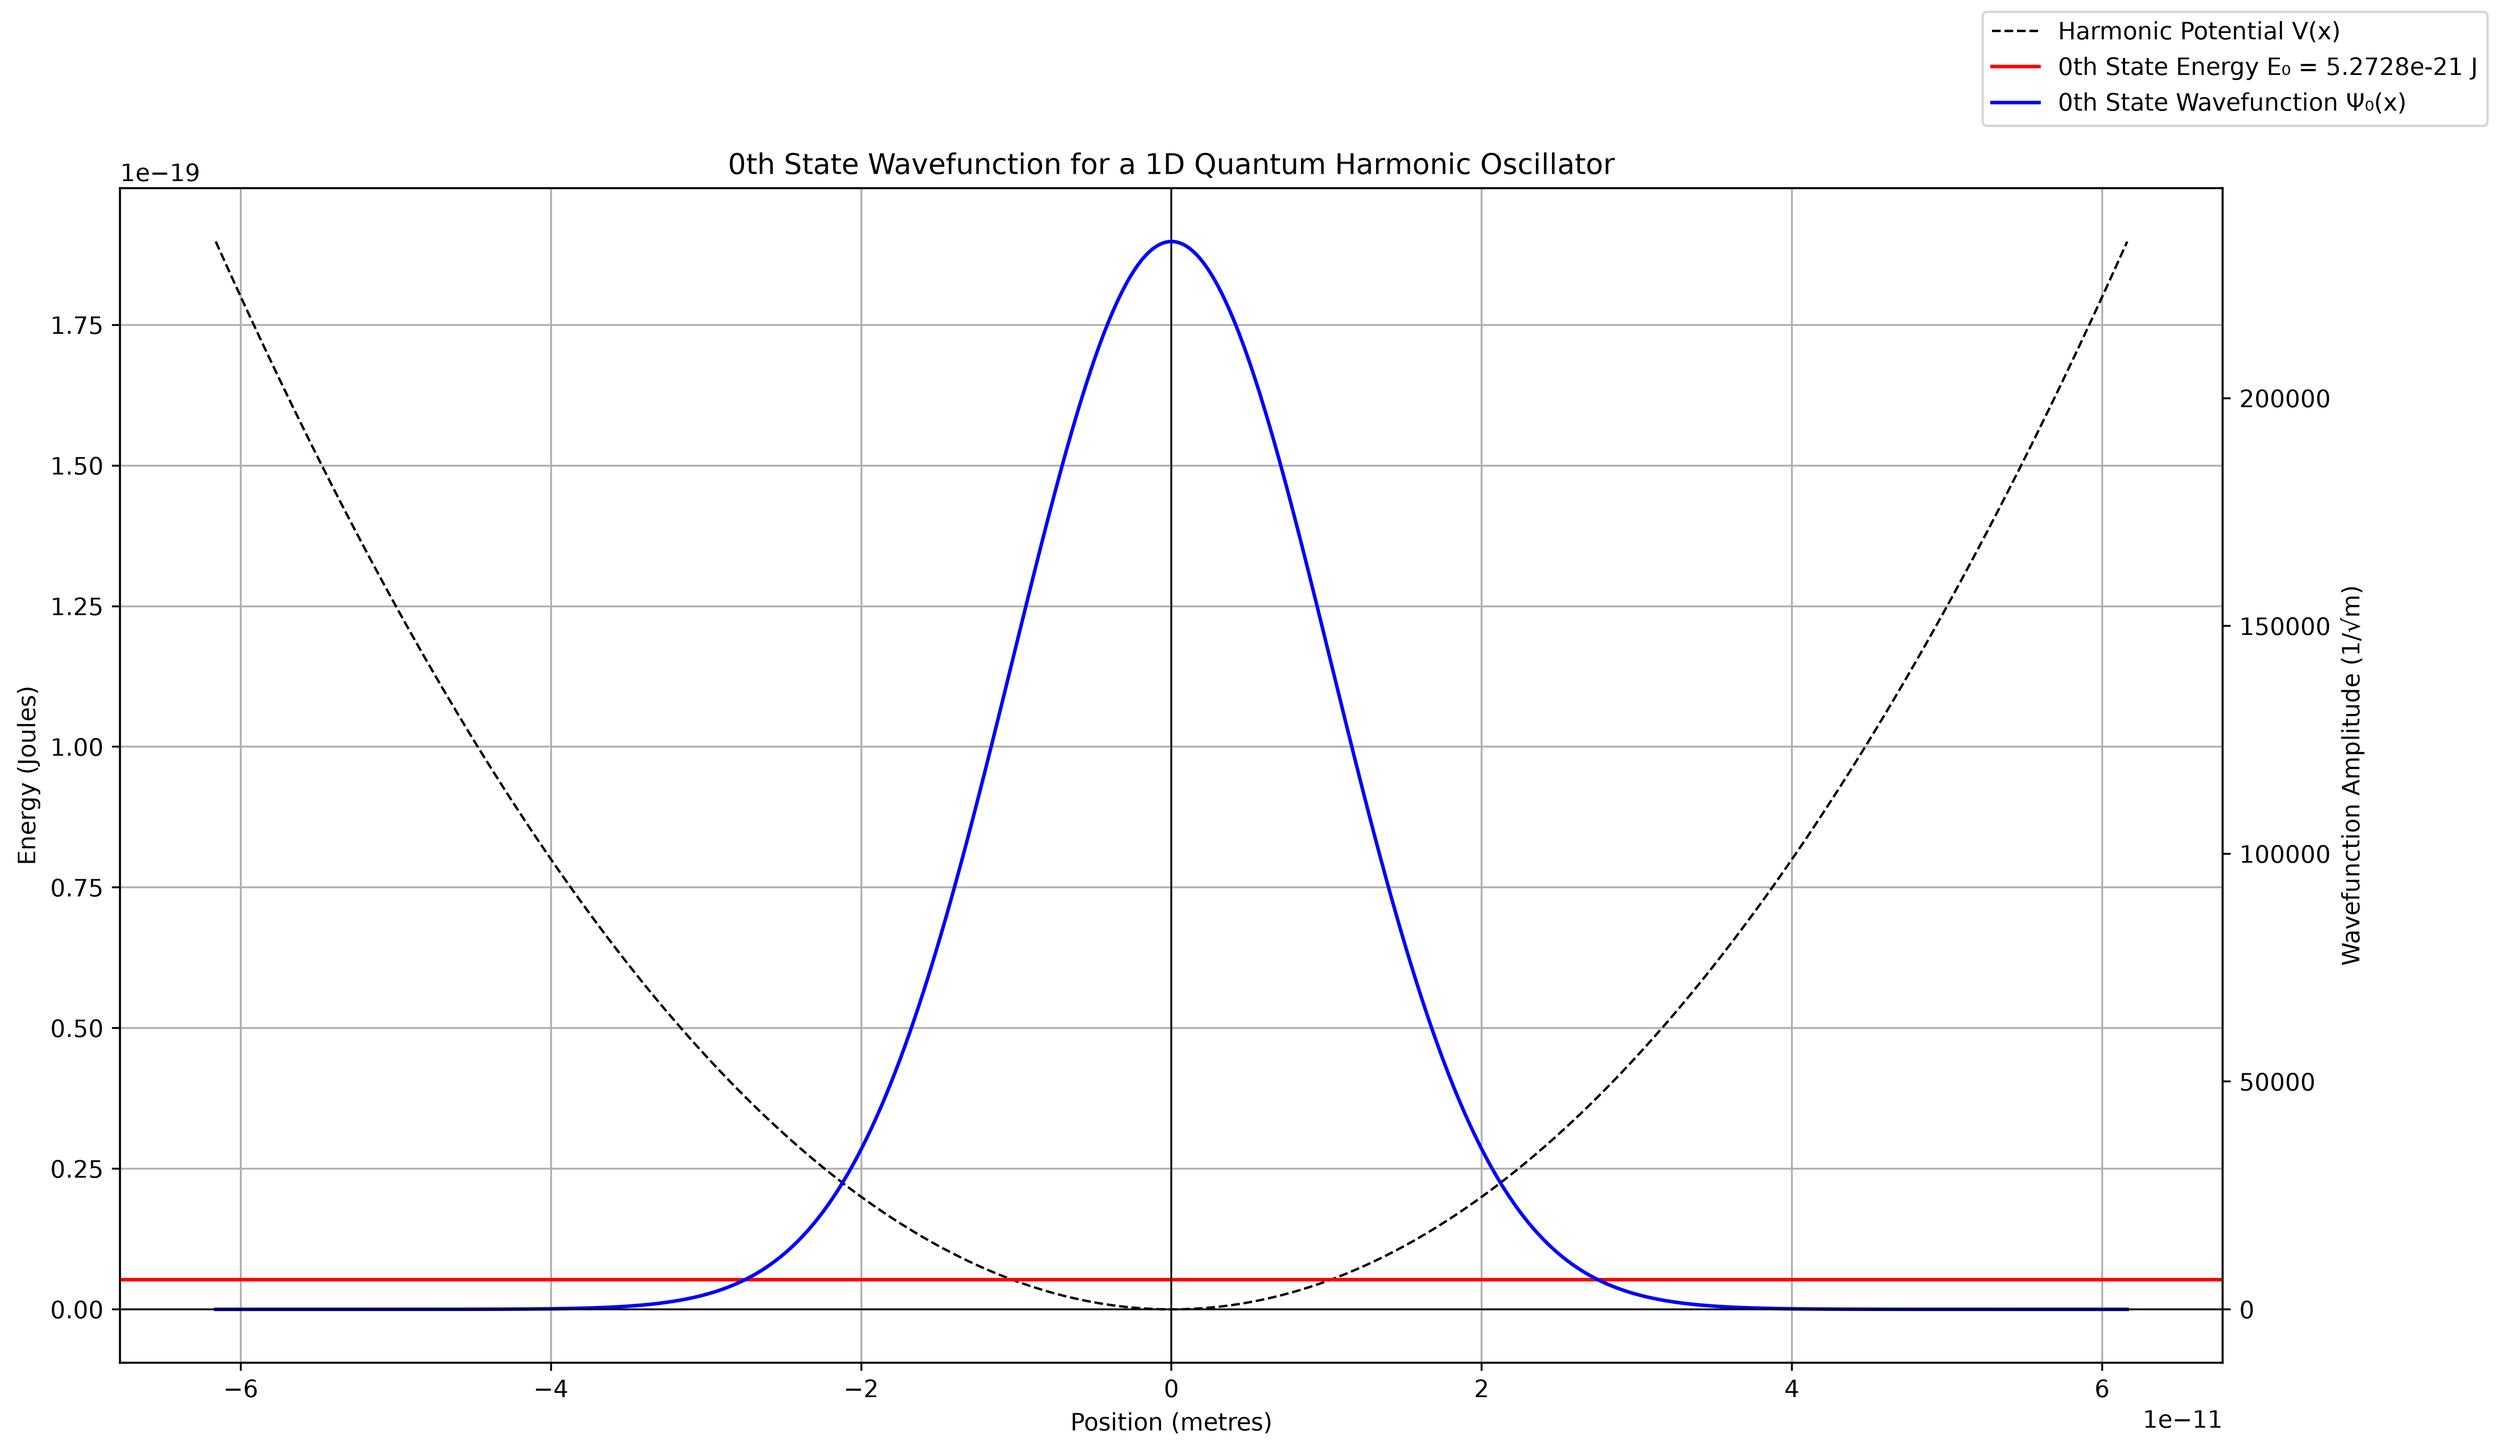
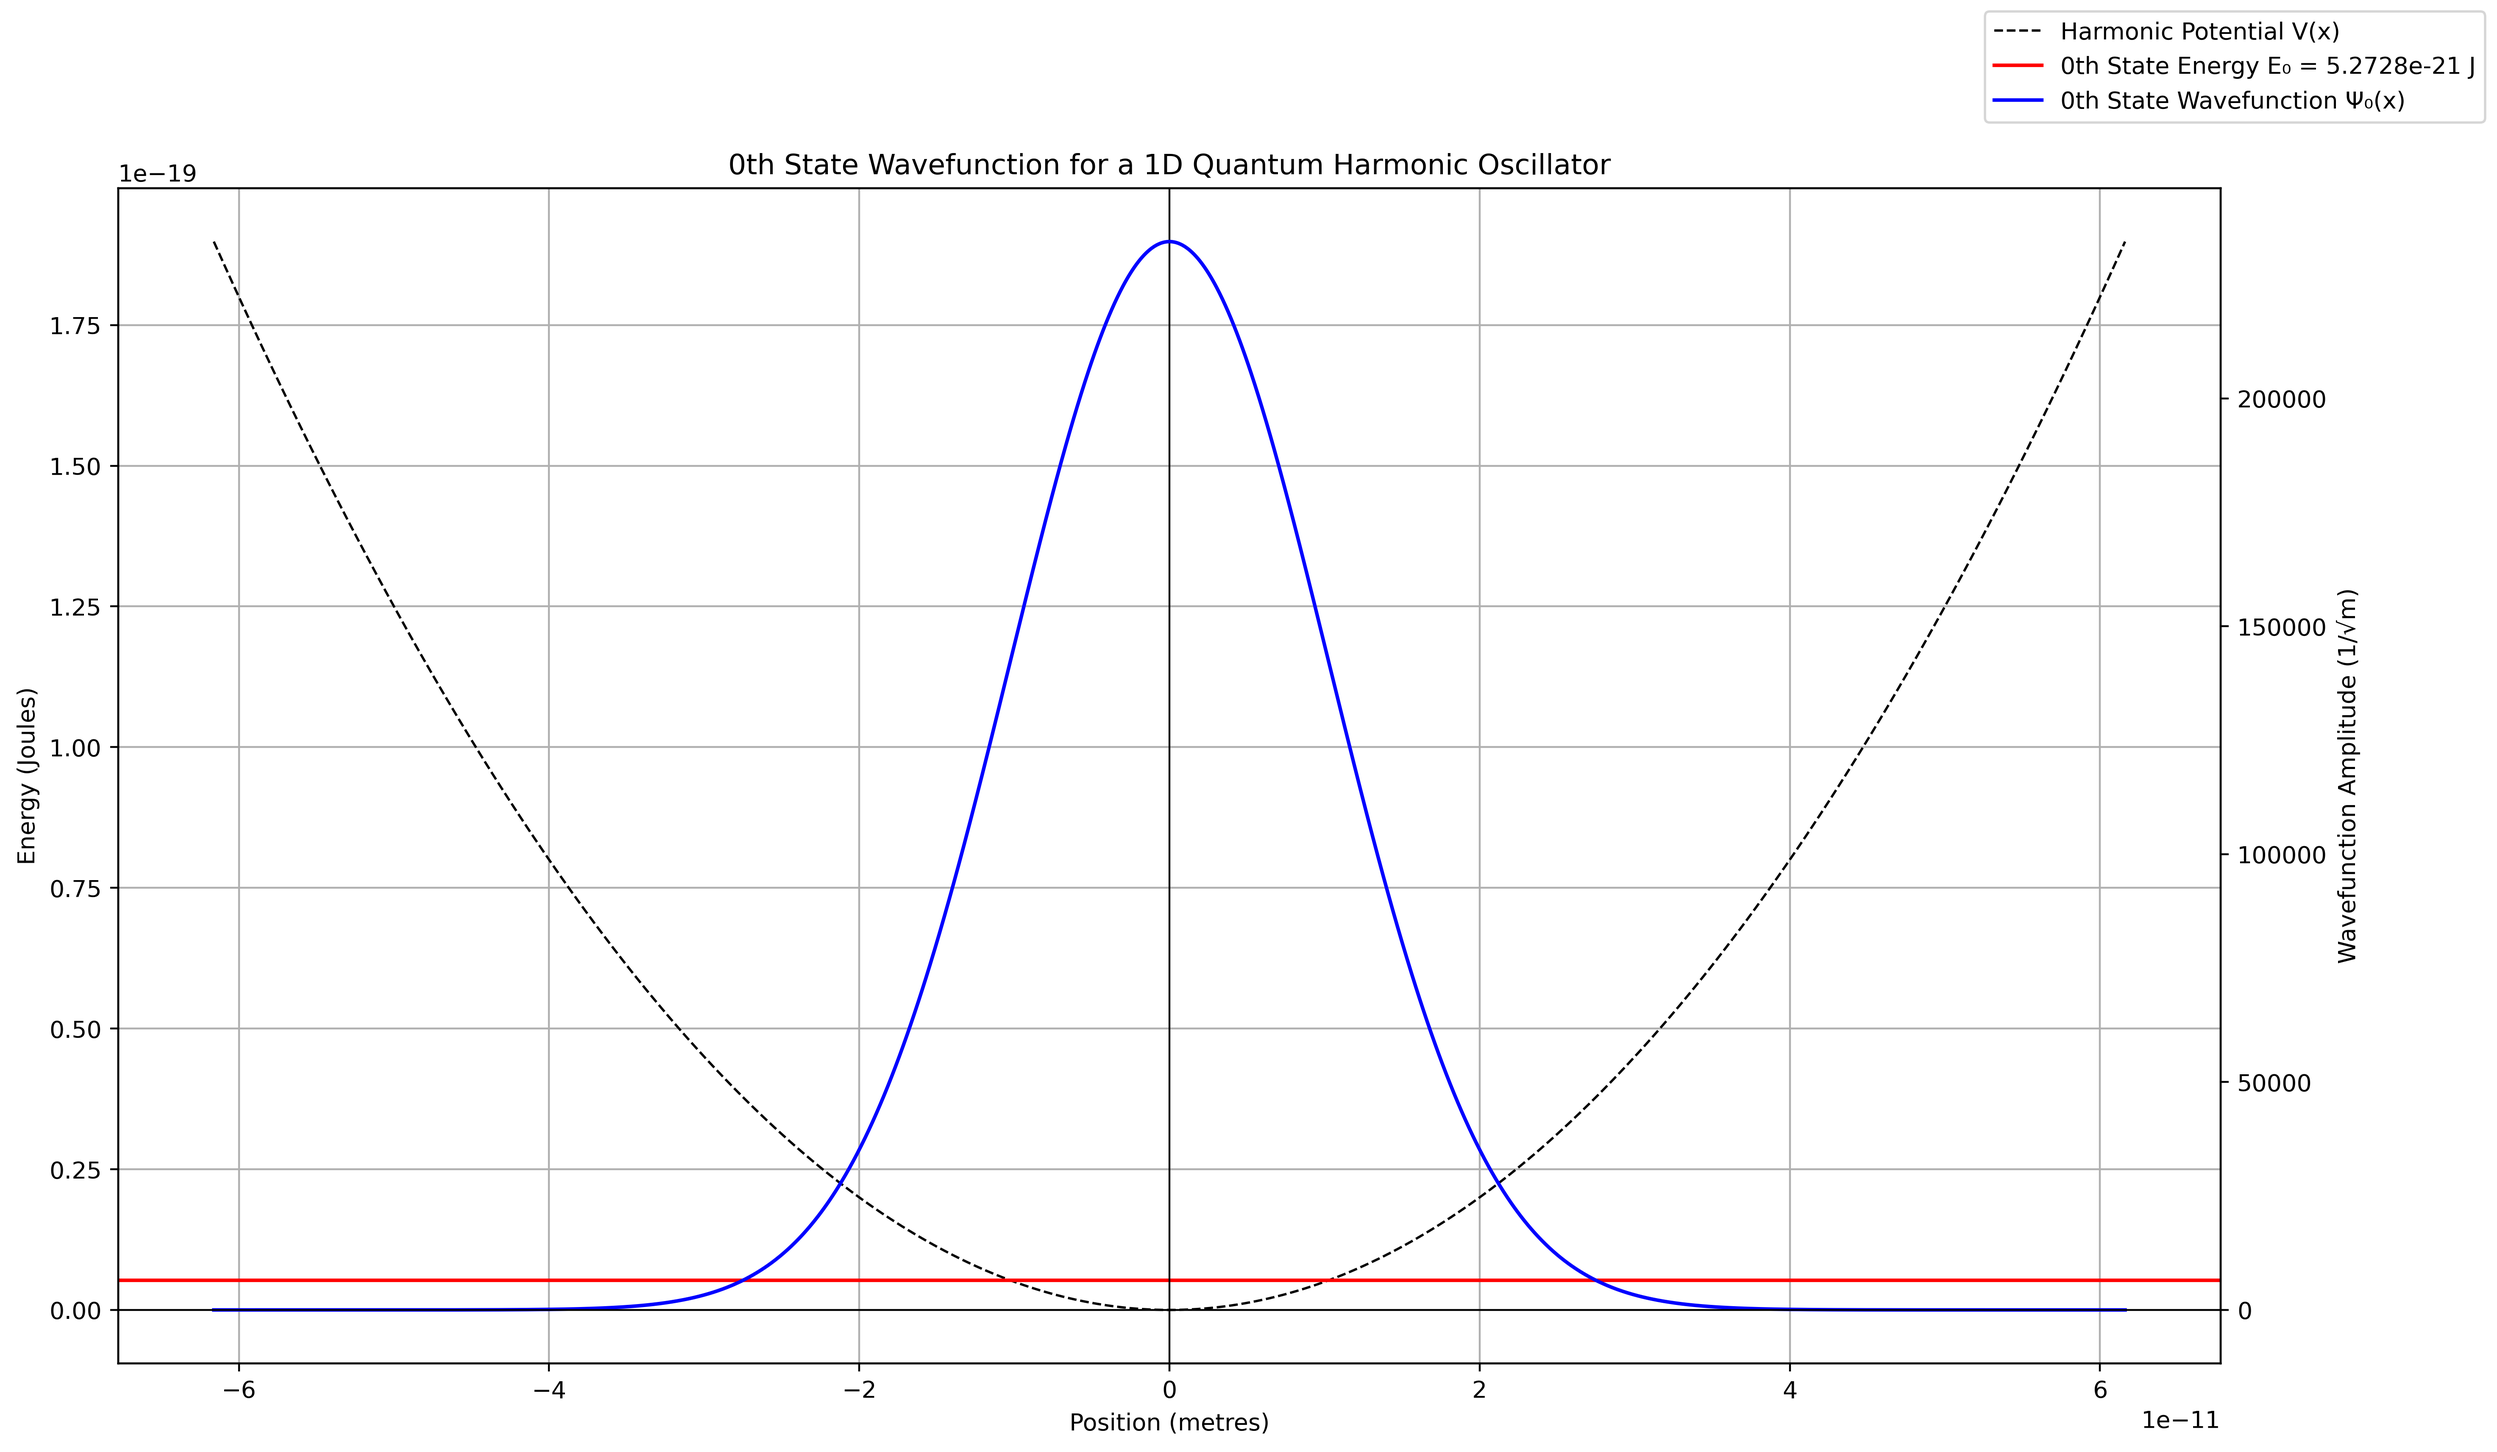
Calculated anharmonic oscillator

diff --git a/anharmonic-oscillator.py b/anharmonic-oscillator.py
@@ -1,0 +1,85 @@
+'''
+We modify the stage 3 code to solve for an anharmonic potential.
+'''
+
+import numpy as np
+import scipy.linalg as la
+import matplotlib.pyplot as plt
+
+# Define physical constants in SI units
+ℏ = 1.05457E-34 # m2kg/s
+ω = 1E14 # rad/s
+m = 1E-26 # kg
+L = (ℏ / (m * ω))**0.5  # Characteristic length
+alpha = 0.75   # Parameter for anharmonic potential
+
+# Define boundaries
+x_start = -6.0
+x_end = 6.0
+x_values = np.linspace(x_start, x_end, 2000)   # Creates an array of all x-values
+dx = x_values[1] - x_values[0]  # Define step size
+
+
+def V(x:float):
+    '''
+    Define the anharmonic potential in natural units.
+    '''
+    return 0.5 * (x**2) + alpha * x**4
+
+
+def main():
+    # Set value of n (state of the system)
+    n = 8
+
+    # Creating a map to dynamically print subscript n
+    subscript_map = str.maketrans("0123456789", "₀₁₂₃₄₅₆₇₈₉")
+    n_sub = str(n).translate(subscript_map)
+
+    # Construct potential energy matrix
+    V_matrix = np.diag(V(x_values), k=0)
+
+    # Construct kinetic energy matrix
+    upper = np.full((1999), 1)
+    middle = np.full((2000), -2)
+    lower = np.full((1999), 1)
+    K_matrix = -(np.diag(middle, k=0) + np.diag(upper, k=1) + np.diag(lower, k=-1)) / (2 * dx**2)   # Add 2 off-diagonal matrices to the diagonal matrix
+
+    # Construct the Hamiltonian of the system
+    Hamiltonian = K_matrix + V_matrix
+    energies, wavefunctions = la.eigh(Hamiltonian)  # Use SciPy to calculate eigenvalues and eigenfunctions
+
+    Energy_n_SI = energies[n] * ℏ * ω   # Extract nth state energy and convert to SI units
+    print(f"The energy of the {n}{'th' if 11 <= n % 100 <= 13 else ('st' if n % 10 == 1 else ('nd' if n % 10 == 2 else ('rd' if n % 10 == 3 else 'th')))} state is: {Energy_n_SI} J")
+    print()
+
+
+    x_axis_SI = x_values * L    # Scale x-axis to SI
+    V_values_SI = V(x_axis_SI) * m * ω**2   # Scale harmonic potential to SI
+    normalized_wave_n_SI = (wavefunctions[:, n] / dx**0.5) / L**0.5     # Extract nth state wavefunction, normalize, and scale to SI
+
+    # Plotting the anharmonic potential, the nth state wavefunction and the nth state energy against the x-values
+    fig, ax1 = plt.subplots(figsize=(16, 9))
+    plt.title(f"{n}{'th' if 11 <= n % 100 <= 13 else ('st' if n % 10 == 1 else ('nd' if n % 10 == 2 else ('rd' if n % 10 == 3 else 'th')))} State Wavefunction for a 1D Quantum Anharmonic Oscillator")
+
+    # Plotting potential and nth state energy
+    ax1.plot(x_axis_SI, V_values_SI, label='Anharmonic Potential V(x)', color='black', linestyle='--', linewidth=1)
+    ax1.axhline(Energy_n_SI, label=f"{n}{'th' if 11 <= n % 100 <= 13 else ('st' if n % 10 == 1 else ('nd' if n % 10 == 2 else ('rd' if n % 10 == 3 else 'th')))} State Energy E{n_sub} = {Energy_n_SI:.4e} J", color='red')
+    ax1.set_xlabel('Position (metres)')
+    ax1.set_ylabel('Energy (Joules)')
+    ax1.axhline(0, color='black', linewidth=0.75)
+    ax1.axvline(0, color='black', linewidth=0.75)
+
+    # Plotting the wavefunction
+    ax2 = ax1.twinx()
+    ax2.plot(x_axis_SI, normalized_wave_n_SI, label=f"{n}{'th' if 11 <= n % 100 <= 13 else ('st' if n % 10 == 1 else ('nd' if n % 10 == 2 else ('rd' if n % 10 == 3 else 'th')))} State Wavefunction \u03A8{n_sub}(x)", color='blue')
+    ax2.set_ylabel('Wavefunction Amplitude (1/\u221Am)')
+    ax2.axhline(0, color='black', linewidth=0.75)
+
+    ax1.grid(True)
+    fig.legend()
+    plt.savefig(f'plots\\anharmonic_plots\\anharmonic_plot_n={n}.png', dpi=400, bbox_inches='tight')
+    plt.show()
+
+
+if __name__ == "__main__":
+    main()

diff --git a/README.md b/README.md
@@ -82,3 +82,14 @@ $$
 Thus, we can express $\hat{K}$ as a tri-diagonal matrix, with the diagonal elements being the coefficients of $\psi_i$, and the upper and lower diagonal elements being the coefficients of $\psi_{i+1}$ and $\psi_{i-1}$ respectively.
 
 Finally, we obtain the total energy operator, also known as the Hamiltonian of the system as an $N \times N$ square matrix, $\hat{H} = \hat{K} + \hat{V}$ which we can pass into `scipy.linalg.eigh` to directly compute all of its energy eigenvalues and eigenstates. Of course, while plotting we scale everything back to SI units using the relations presented in stage 2.
+
+
+## Anharmonic Potential
+
+Finally, we take what we have from stage 3 and replace the harmonic potential with an anharmonic one:
+
+$$
+\hat{V}(x) = \frac{1}{2}m \omega^2\hat{x}^2 + \alpha \hat{x}^4.
+$$
+
+We are then able to use the exact same mathematical framework as before to numerically calculate the energy eigenvalues and wavefunctions for this modified potential.
